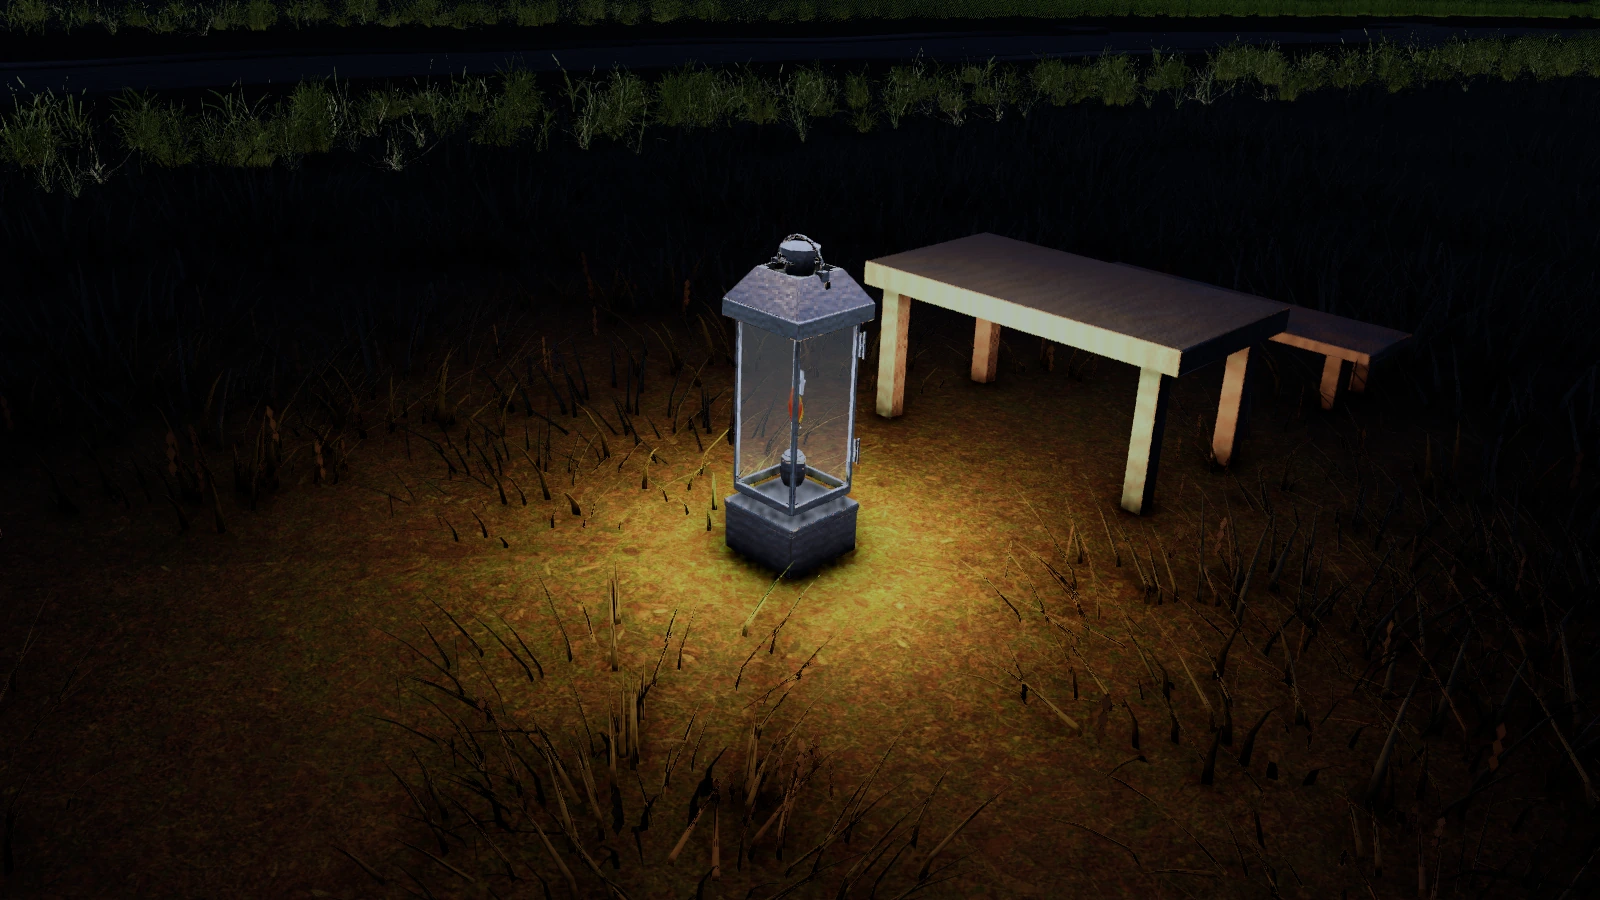
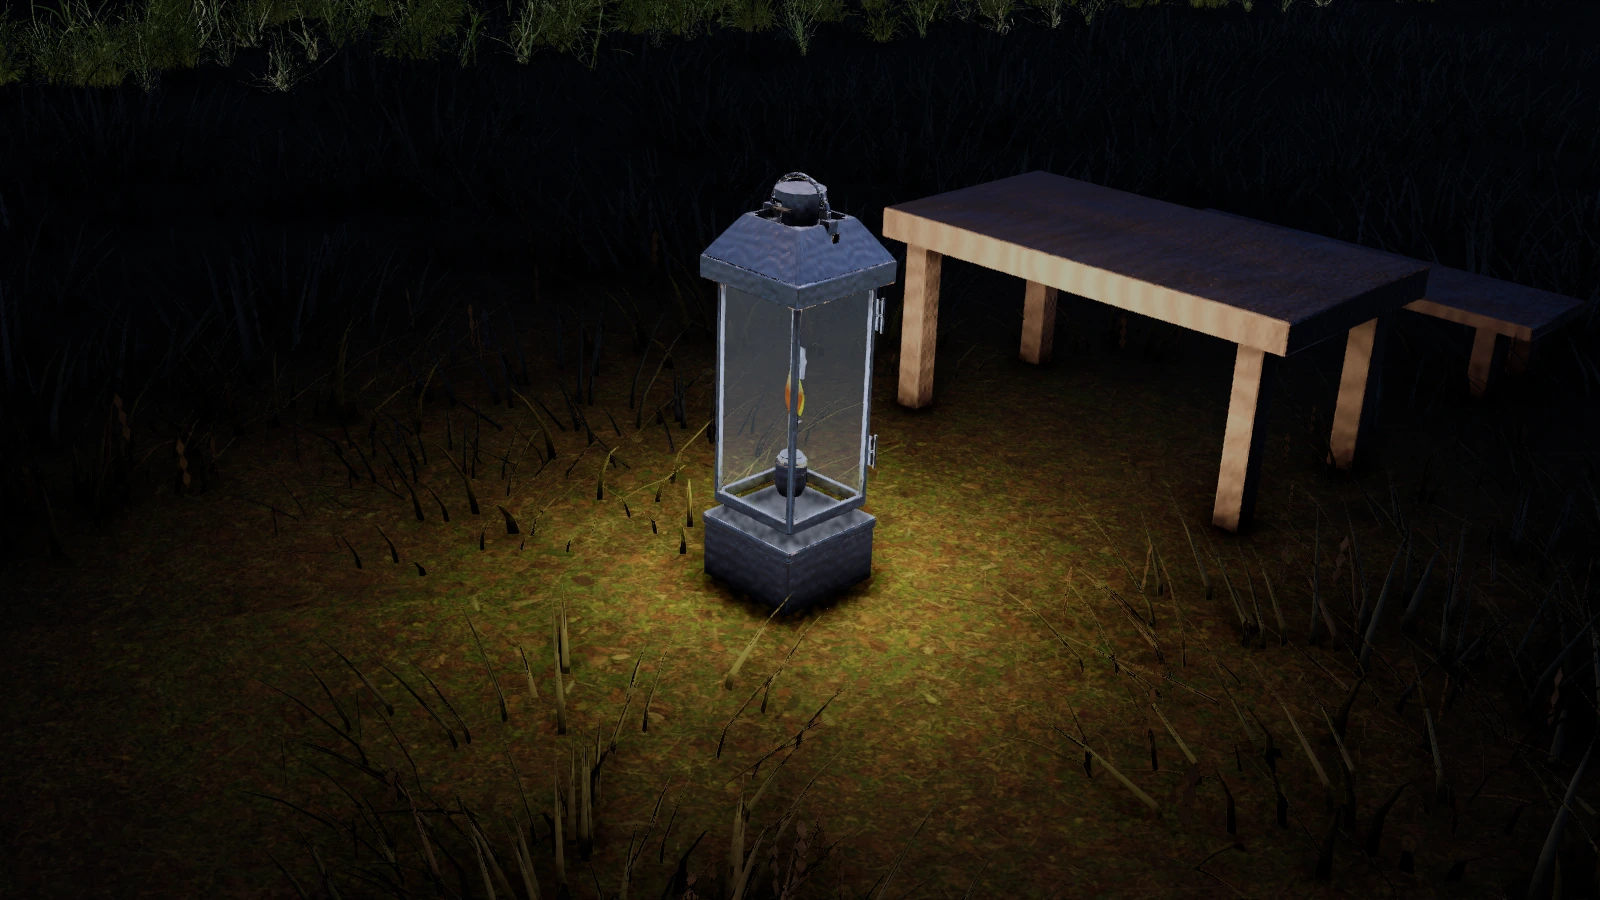
Refine lantern night capture and materials

diff --git a/site/world-battlefield.html b/site/world-battlefield.html
@@ -3,6 +3,7 @@
 <head>
 <meta charset="utf-8">
 <meta name="viewport" content="width=device-width, initial-scale=1">
+<link rel="stylesheet" href="lightbox.css">
 <meta name="description" content="Town streets, buildings, camp scenery, material studies, and battle views.">
 <title>World &amp; battlefield · Big Sim model collection</title>
 <style>
@@ -52,7 +53,6 @@ footer a{color:var(--gold)}
 @media(max-width:760px){.grid{grid-template-columns:repeat(2,minmax(0,1fr));gap:10px}.motion-grid{grid-template-columns:repeat(2,minmax(0,1fr))}.battle-grid{grid-template-columns:1fr}.section-head{display:block}.section-head p{margin-top:8px}}
 @media(max-width:480px){.shell{width:calc(100% - 24px)}.grid,.motion-grid{grid-template-columns:1fr}.page-head{padding-top:35px}.category-nav{overflow-x:auto;flex-wrap:nowrap}.topline{font-size:.65rem}}
 </style>
-  <link rel="stylesheet" href="lightbox.css">
 </head>
 <body><div class="shell">
   <div class="topline">Big Sim / Model atlas</div>
@@ -222,9 +222,9 @@ footer a{color:var(--gold)}
   <div class="caption"><div class="eyebrow">World</div><h3>Cottage roof and joinery</h3><p>Close view of roof tiles, chimney, shutters, and timber details</p><span class="credit">Big Sim original building detail</span></div>
 </article><article class="card">
   <a class="image" href="images/gallery/panorama.webp" aria-label="Open full size image: Battlefield overview">
-    <img src="images/gallery/panorama.webp" alt="Battlefield overview — Current Unity panorama across the rural battlefield and formations" loading="lazy">
+    <img src="images/gallery/panorama.webp" alt="Battlefield overview — A current Unity overview across cultivated fields, village roads, and infantry lines" loading="lazy">
   </a>
-  <div class="caption"><div class="eyebrow">World</div><h3>Battlefield overview</h3><p>Current Unity panorama across the rural battlefield and formations.</p><span class="credit">Big Sim source-scene render</span></div>
+  <div class="caption"><div class="eyebrow">World</div><h3>Battlefield overview</h3><p>A current Unity overview across cultivated fields, village roads, and infantry lines</p><span class="credit">Unity Play capture · rural ground pass</span></div>
 </article></div>
 </section><section>
   <div class="section-head"><div><div class="kicker">Across the field</div><h2>Battlefield views</h2></div><p>Current Unity captures show a musket pan ignition and live firing line; panoramas and concept views show the wider battlefield.</p></div>
@@ -275,14 +275,14 @@ footer a{color:var(--gold)}
   <div><span class="eyebrow">Battlefield view</span><h3>Through the front ranks</h3><p>A Unity combat capture of a soldier firing amid smoke and fallen troops</p></div>
 </article><article class="battle-card">
   <a class="battle-image" href="images/gallery/night-lantern-camp.webp" aria-label="Open full size image: Camp lantern after dark">
-    <img src="images/gallery/night-lantern-camp.webp" alt="Camp lantern after dark — Fresh Unity night capture of the field lantern and camp table, with warm local light, soft cast shadows, and a dark surrounding field" loading="lazy">
+    <img src="images/gallery/night-lantern-camp.webp" alt="Camp lantern after dark — Fresh Unity night capture of the field lantern and camp table under the gameplay light pool, with a restrained review key to reveal wood grain and cast shadows" loading="lazy">
   </a>
-  <div><span class="eyebrow">Battlefield view</span><h3>Camp lantern after dark</h3><p>Fresh Unity night capture of the field lantern and camp table, with warm local light, soft cast shadows, and a dark surrounding field</p></div>
+  <div><span class="eyebrow">Battlefield view</span><h3>Camp lantern after dark</h3><p>Fresh Unity night capture of the field lantern and camp table under the gameplay light pool, with a restrained review key to reveal wood grain and cast shadows</p></div>
 </article><article class="battle-card">
   <a class="battle-image" href="images/gallery/battle-ground-line.webp" aria-label="Open full size image: Along the infantry line">
-    <img src="images/gallery/battle-ground-line.webp" alt="Along the infantry line — Near-ground open-flank view along the 52nd Light Infantry line; each private shoulders a flintlock musket in a two-hand aiming stance. Blender art study, not Unity gameplay" loading="lazy">
+    <img src="images/gallery/battle-ground-line.webp" alt="Along the infantry line — Near-ground open-flank view along the 52nd line; each private shoulders a flintlock light infantry musket in a two-hand aiming stance. Blender art study, not a Unity gameplay capture" loading="lazy">
   </a>
-  <div><span class="eyebrow">Battlefield view</span><h3>Along the infantry line</h3><p>Near-ground open-flank view along the 52nd Light Infantry line; each private shoulders a flintlock musket in a two-hand aiming stance. Blender art study, not Unity gameplay.</p></div>
+  <div><span class="eyebrow">Battlefield view</span><h3>Along the infantry line</h3><p>Near-ground open-flank view along the 52nd line; each private shoulders a flintlock light infantry musket in a two-hand aiming stance. Blender art study, not a Unity gameplay capture</p></div>
 </article><article class="battle-card">
   <a class="battle-image" href="images/gallery/battle-grass-level.webp" aria-label="Open full size image: Just above the field">
     <img src="images/gallery/battle-grass-level.webp" alt="Just above the field — A low oblique Unity view across the front field, with volley smoke masking the opposing line" loading="lazy">
@@ -318,6 +318,6 @@ footer a{color:var(--gold)}
   <footer>Big Sim · Model showcase · <a href="CREDITS.md">Credits and source notes</a></footer>
 </div>
 <script src="cannon-shot-effect.js"></script>
-  <script src="lightbox.js" defer></script>
+<script src="lightbox.js" defer></script>
 </body>
 </html>
